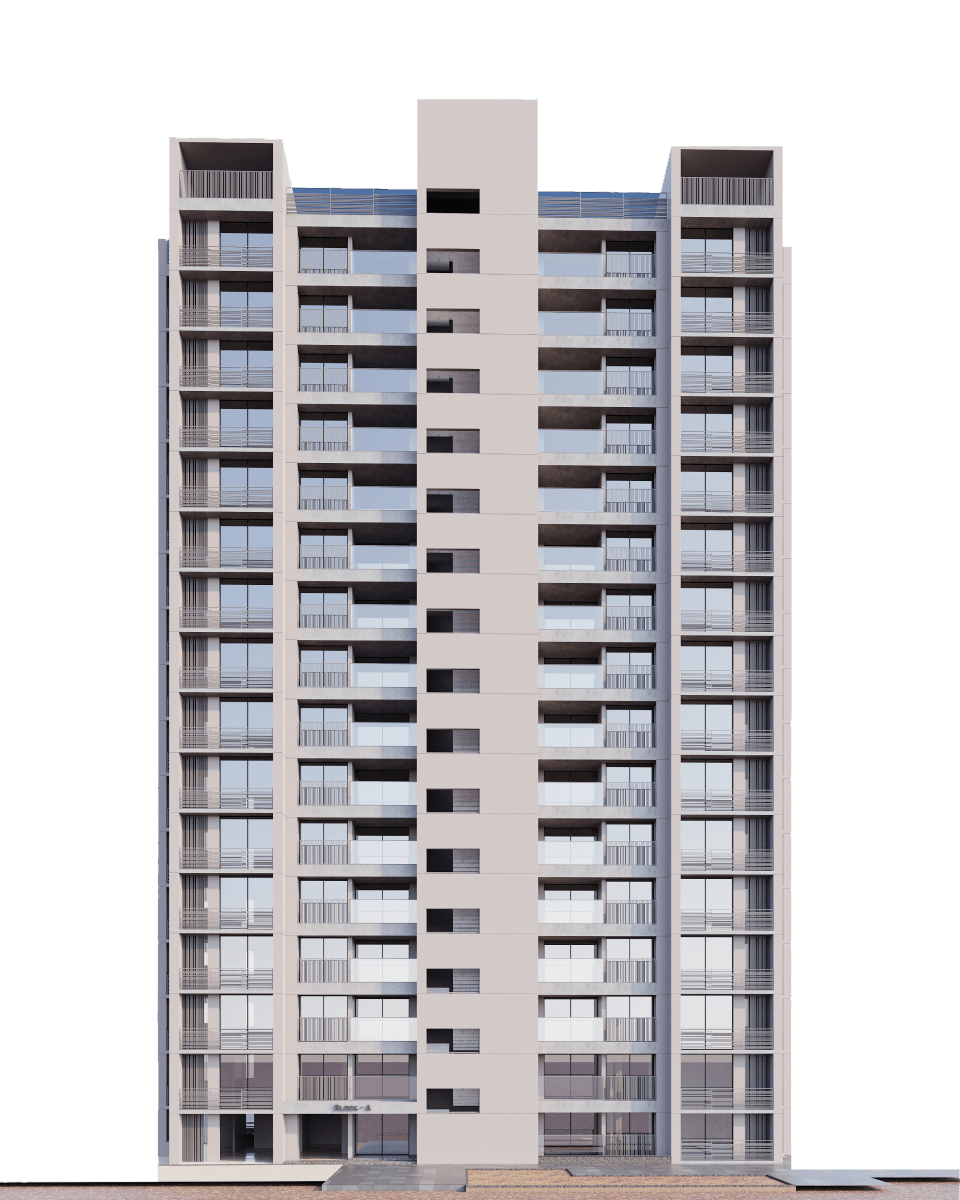
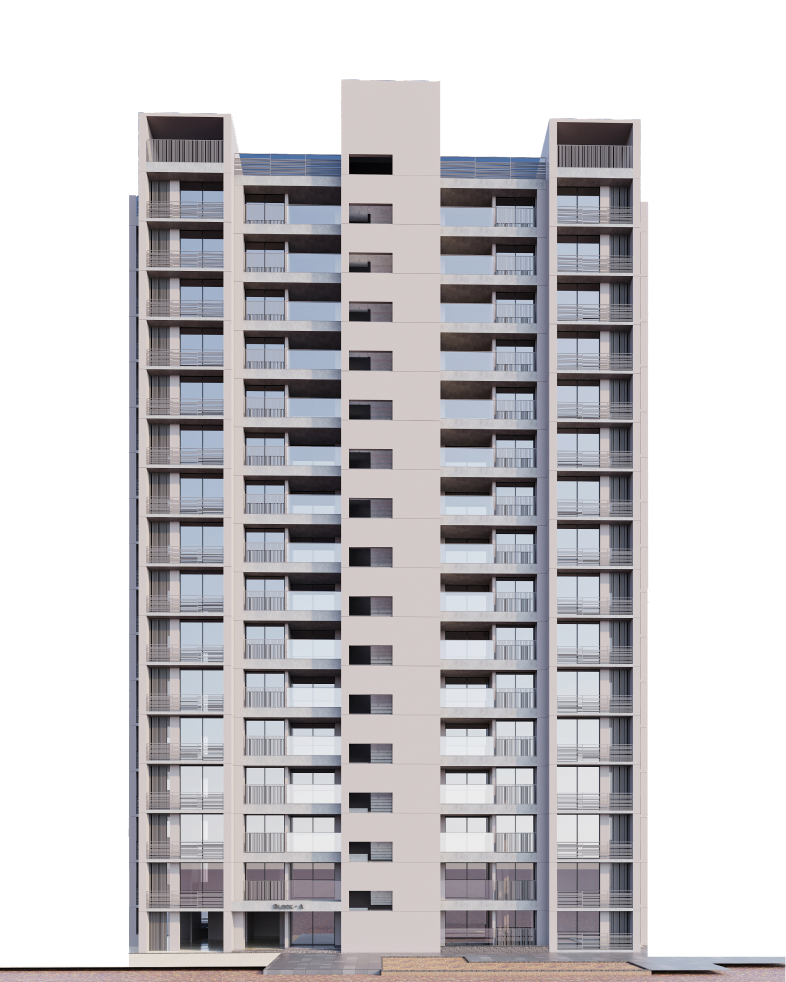
fixed half visible issue in safari

diff --git a/src/components/molecules/Floor.jsx b/src/components/molecules/Floor.jsx
@@ -1,12 +1,8 @@
 import React from "react";
 import { Link, useNavigate } from "react-router-dom";
 import { useViewport } from "../../contexts/AppContext";
-import {
-  FLOORS_COMPASS_ANGLES,
-  FLOORS_VIEWPORTS,
-  TOWERS_VIEWPORTS,
-} from "../../data";
-import { FLAT_PATHS, FLOOR_PATHS } from "../../data/paths";
+import { FLOORS_COMPASS_ANGLES, FLOORS_VIEWPORTS } from "../../data";
+import { FLAT_PATHS } from "../../data/paths";
 import { getFlatInfo } from "../../functions/helpers";
 import { getAllFlatsInFloor } from "../../functions/inventory";
 import Path from "../atoms/Path";
@@ -46,7 +42,7 @@ const Floor = ({
       )}
       <Svg
         Bgsrc={`floors/floor-${towerId}.png`}
-        svgWidth="fit-content"
+        svgWidth="auto"
         viewBox={FLOORS_VIEWPORTS[towerId]}
         style={{ padding: "1rem" }}
         onClick={() => setClickedFlat(false)}

diff --git a/src/components/molecules/Tower.jsx b/src/components/molecules/Tower.jsx
@@ -11,6 +11,7 @@ import Svg from "./Svg";
 
 const Tower = ({ towerId, clickedFloor, setClickedFloor }) => {
   const { isMobile } = useViewport();
+
   const navigate = useNavigate();
   return (
     <CarouselItemStyle>
@@ -26,11 +27,8 @@ const Tower = ({ towerId, clickedFloor, setClickedFloor }) => {
 
       <Svg
         Bgsrc={`towers/tower-${towerId}.png`}
-        svgWidth="fit-content"
+        svgWidth={"auto"}
         viewBox={TOWERS_VIEWPORTS[towerId]}
-        style={{
-          paddingLeft: towerId == "D" && "10vw",
-        }}
         onClick={() => setClickedFloor(false)}
       >
         <g className="floors-svg">

diff --git a/src/data/index.js b/src/data/index.js
@@ -1,9 +1,3 @@
-// export const TOWERS_VIEWPORTS = {
-//   A: "0 0 1960 900",
-//   B: "0 0 1417 1200",
-//   C: "0 0 1417 1200",
-//   D: "0 0 1000 1000",
-// };
 export const TOWERS_VIEWPORTS = {
   A: "0 0 960 1200",
   B: "0 0 1417 1200",
